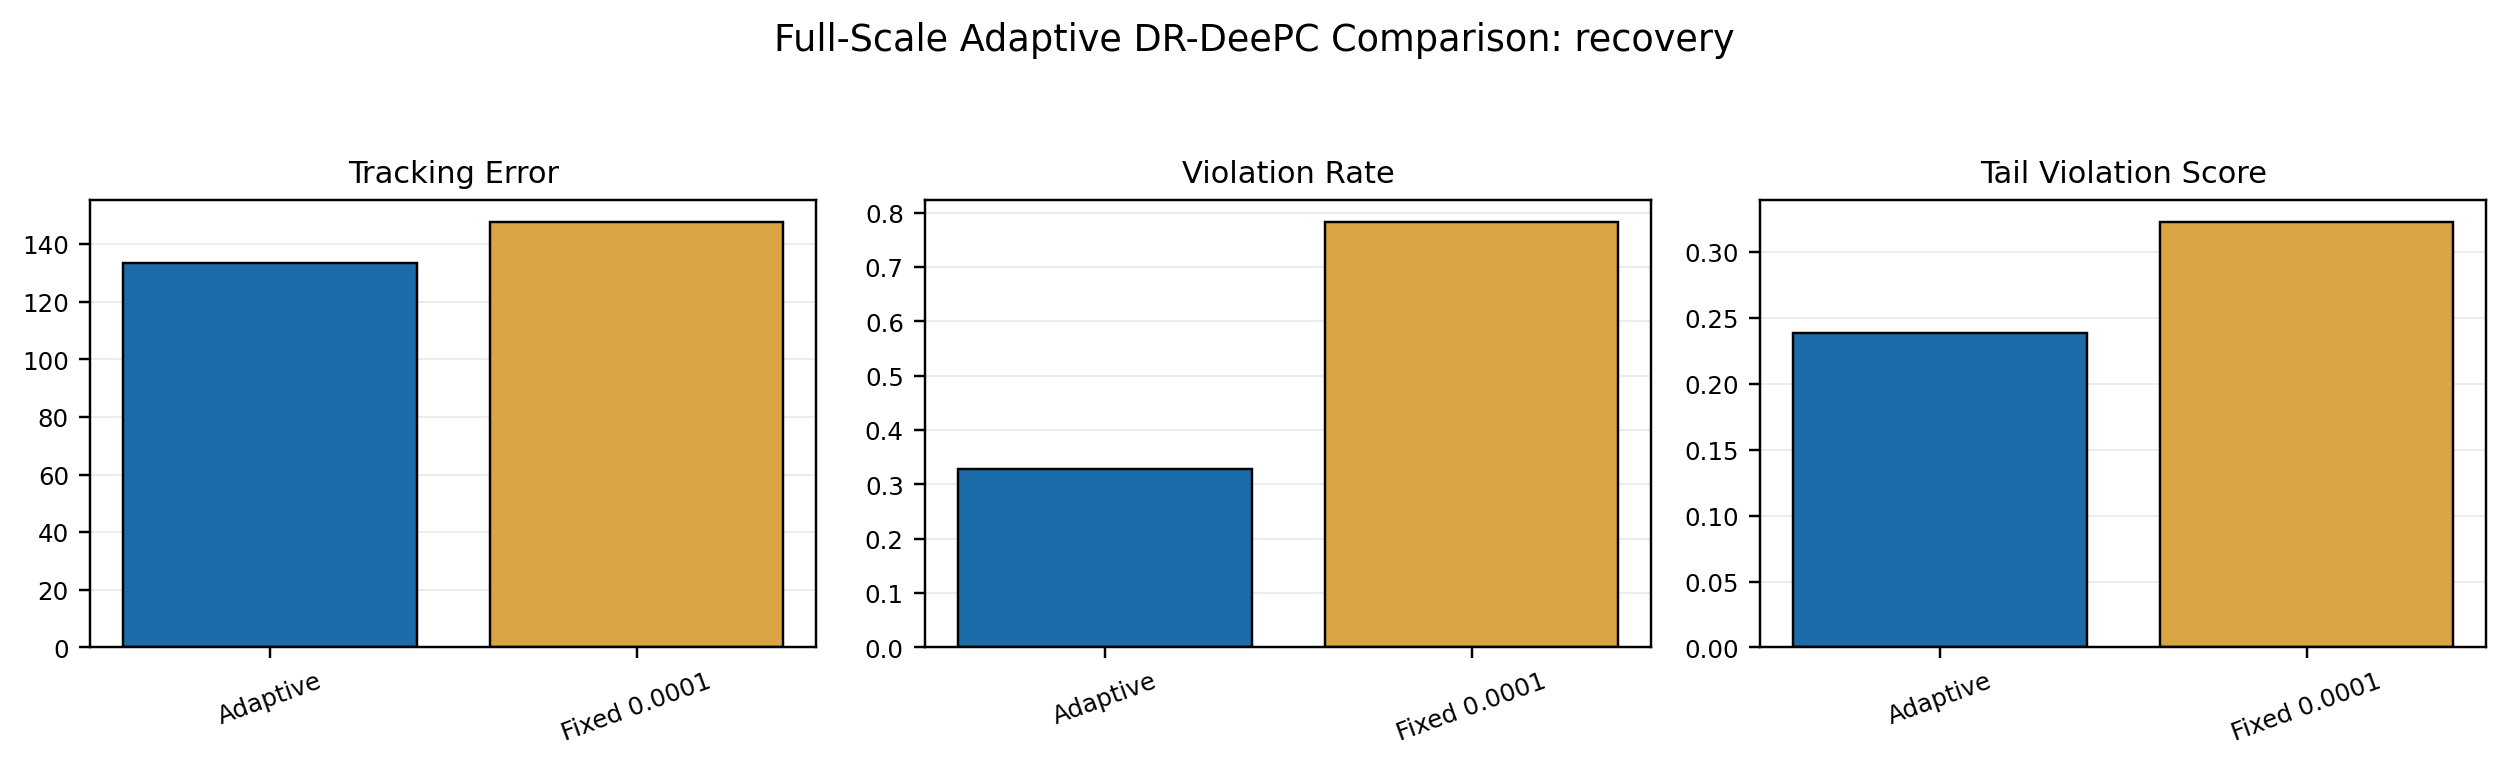
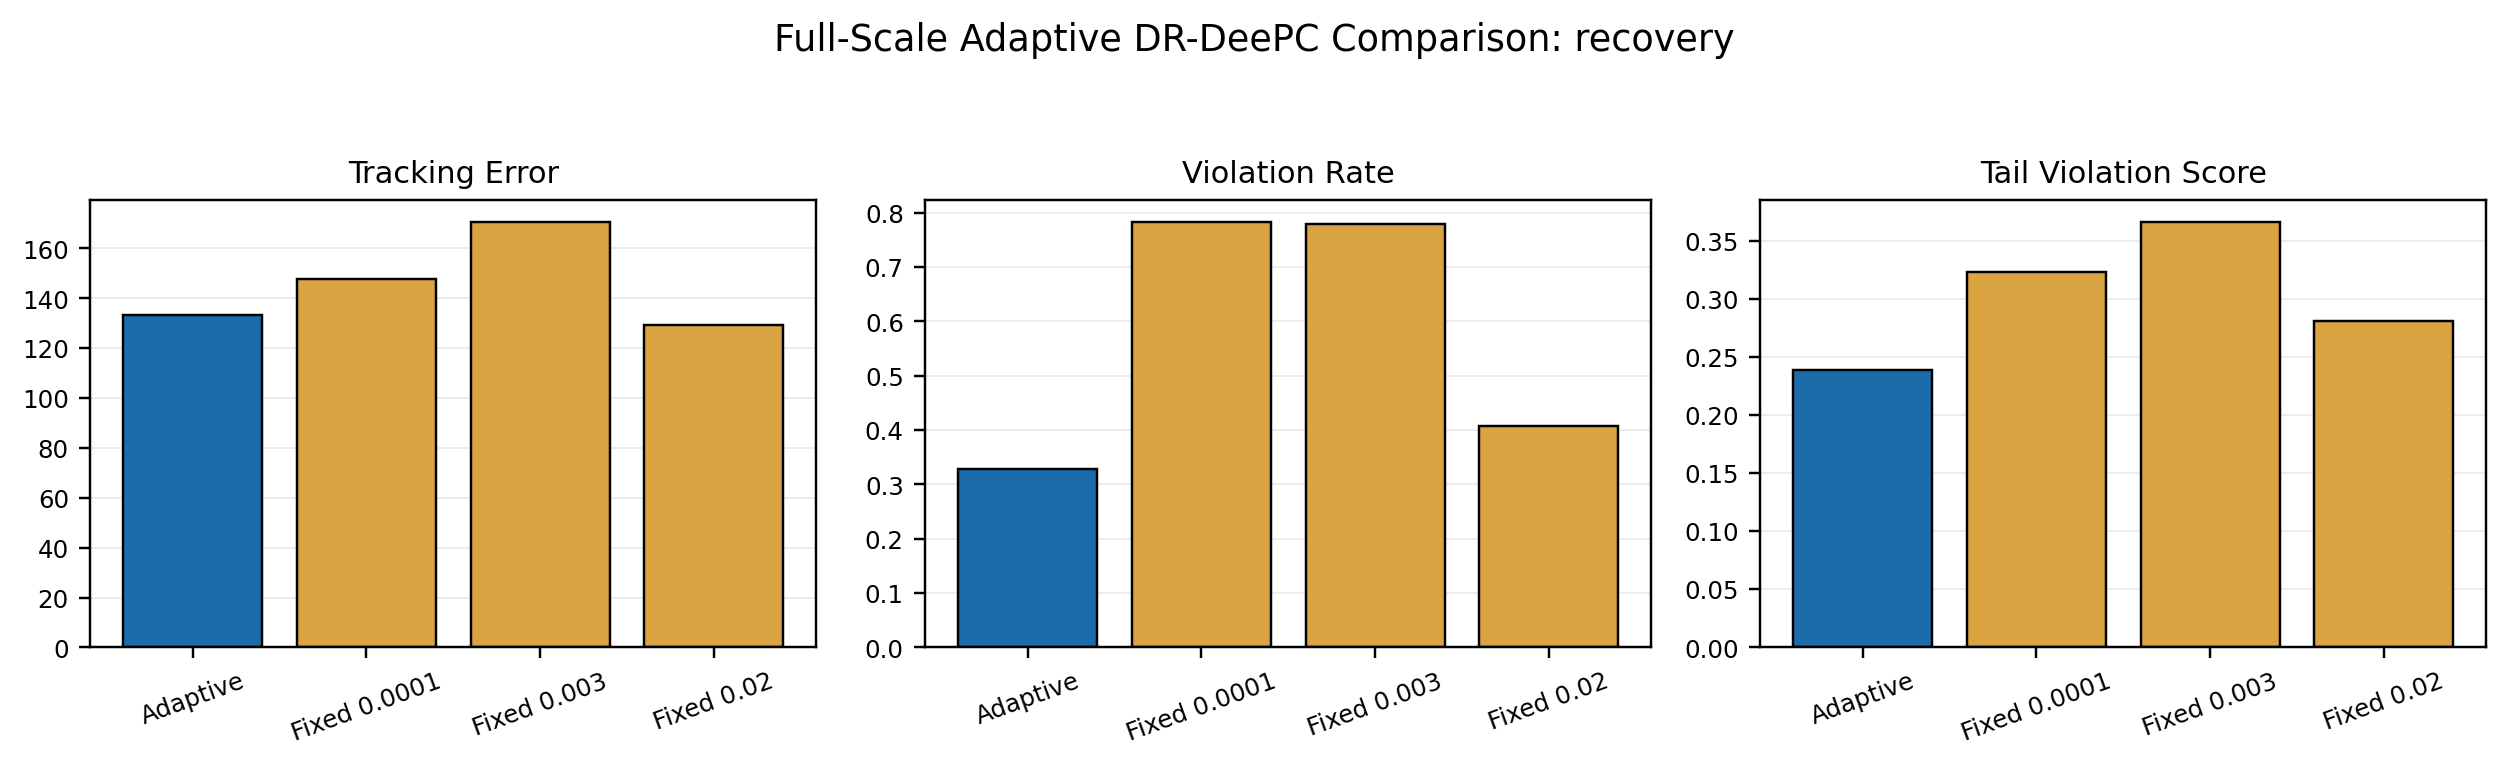
Update manuscript with recovery and bias-shift results

diff --git a/paper/adaptive_wasserstein_radius_deepc_ieee_draft.tex b/paper/adaptive_wasserstein_radius_deepc_ieee_draft.tex
@@ -323,13 +323,22 @@ The adaptive-radius study has already produced a first set of full-scale nonstat
     \label{fig:noise-jump-compare}
 \end{figure}
 
-The second full-scale nonstationary comparison considers a recovery scenario in which the uncertainty intensity first increases and then later returns to its nominal level. In this case, the adaptive controller achieves tracking error $133.35$, violation rate $0.328$, and tail violation score $0.2387$, while the aggressive fixed-radius baseline with $\epsilon=10^{-4}$ yields tracking error $147.90$, violation rate $0.784$, and tail violation score $0.3233$. This is consistent with the intended behavior of the adaptive mechanism: it can enlarge the ambiguity radius when uncertainty increases and avoid remaining permanently locked to an overly optimistic fixed setting.
+The second full-scale nonstationary comparison considers a recovery scenario in which the uncertainty intensity first increases and then later returns to its nominal level. In this case, the adaptive controller achieves tracking error $133.35$, violation rate $0.328$, and tail violation score $0.2387$, while the aggressive fixed-radius baseline with $\epsilon=10^{-4}$ yields tracking error $147.90$, violation rate $0.784$, and tail violation score $0.3233$. A more conservative fixed choice $\epsilon=0.02$ reduces the violation rate to $0.408$ and improves the tracking error to $129.15$, but still remains inferior to the adaptive controller in both violation frequency and tail risk. The intermediate fixed-radius case $\epsilon=0.003$ again performs poorly, with tracking error $170.80$ and violation rate $0.780$. This is consistent with the intended behavior of the adaptive mechanism: it can enlarge the ambiguity radius when uncertainty increases and avoid remaining permanently locked to an overly optimistic fixed setting.
 
 \begin{figure}[t]
     \centering
     \includegraphics[width=\linewidth]{figures/adaptive_compare_recovery.pdf}
     \caption{Full-scale comparison in the recovery scenario. The adaptive controller maintains a more favorable performance-safety trade-off when uncertainty increases and later relaxes.}
     \label{fig:recovery-compare}
+\end{figure}
+
+The third full-scale nonstationary comparison introduces a measurement-bias shift. In the currently completed comparison, the adaptive controller achieves tracking error $119.03$, violation rate $0.304$, and tail violation score $0.2312$, whereas the aggressive fixed-radius baseline with $\epsilon=10^{-4}$ yields tracking error $119.61$, violation rate $0.784$, and tail violation score $0.2869$. This result is encouraging because it suggests that the adaptive controller can retain comparable nominal-performance levels while significantly reducing the frequency and severity of constraint violations under biased measurements.
+
+\begin{figure}[t]
+    \centering
+    \includegraphics[width=\linewidth]{figures/adaptive_compare_bias_shift.pdf}
+    \caption{Full-scale comparison in the bias-shift scenario. The adaptive controller preserves tracking performance while substantially reducing safety violations relative to the aggressive fixed-radius baseline.}
+    \label{fig:bias-shift-compare}
 \end{figure}
 
 These preliminary results do not yet constitute the final experimental section, but they already validate the main research direction. First, fixed-radius DR-DeePC exhibits substantial sensitivity to ambiguity-radius choice. Second, repeated data batches and initialization-window design materially affect robustness outcomes. Third, the proposed adaptive-radius mechanism appears capable of reducing violation frequency and tail-risk severity in a nonstationary scenario without altering the inner DR-DeePC formulation.

diff --git a/notes/full_scale_run_log.md b/notes/full_scale_run_log.md
@@ -23,9 +23,10 @@ under `experiments/paper_base.yaml`.
   - note: results are stored in `outputs/full_scale_tini3/paper_style_tini_sweep.csv`
 
 - `adaptive-scenarios`
-  - status: `noise_jump` extended and `recovery` started
+  - status: `noise_jump` and `recovery` extended; `bias_shift` started
   - note: full-scale `noise_jump` now includes `adaptive`, `fixed_0.0001`, `fixed_0.003`, and `fixed_0.02` in `outputs/adaptive_compare_full_noisejump/adaptive_scenario_comparison.csv`
-  - note: the first full-scale `recovery` comparison (`adaptive` vs `fixed_0.0001`) completed and is stored in `outputs/adaptive_compare_full_recovery/adaptive_scenario_comparison.csv`
+  - note: full-scale `recovery` now includes `adaptive`, `fixed_0.0001`, `fixed_0.003`, and `fixed_0.02` in `outputs/adaptive_compare_full_recovery/adaptive_scenario_comparison.csv`
+  - note: the first full-scale `bias_shift` comparison (`adaptive` vs `fixed_0.0001`) completed and is stored in `outputs/adaptive_compare_full_biasshift/adaptive_scenario_comparison.csv`
 
 ## Logging Convention
 
